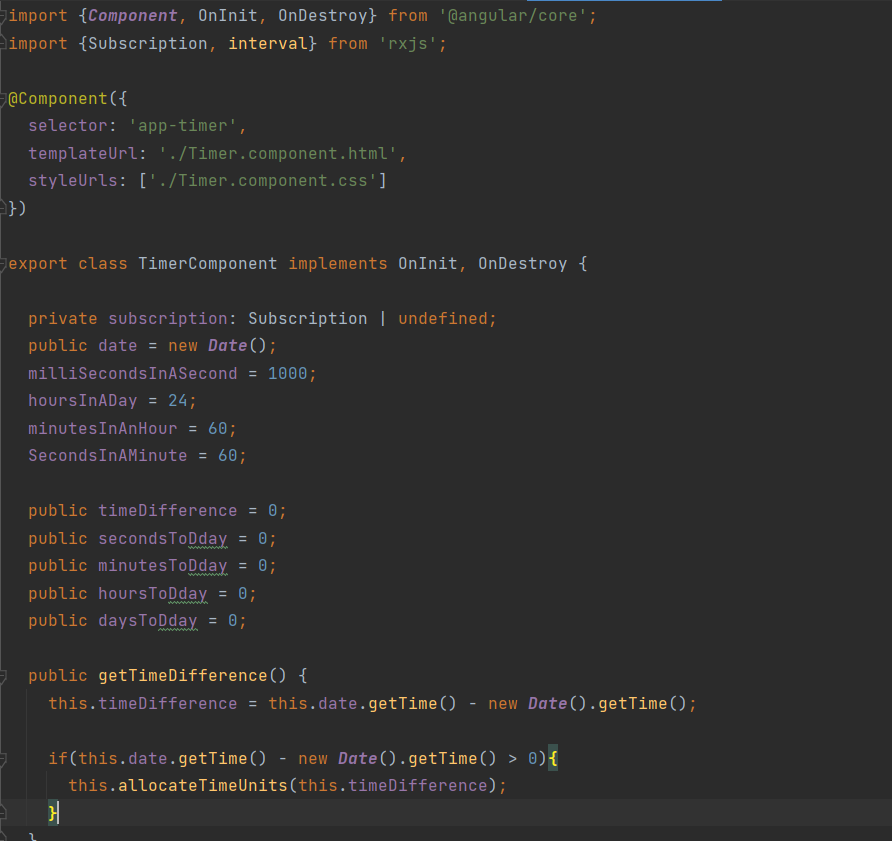
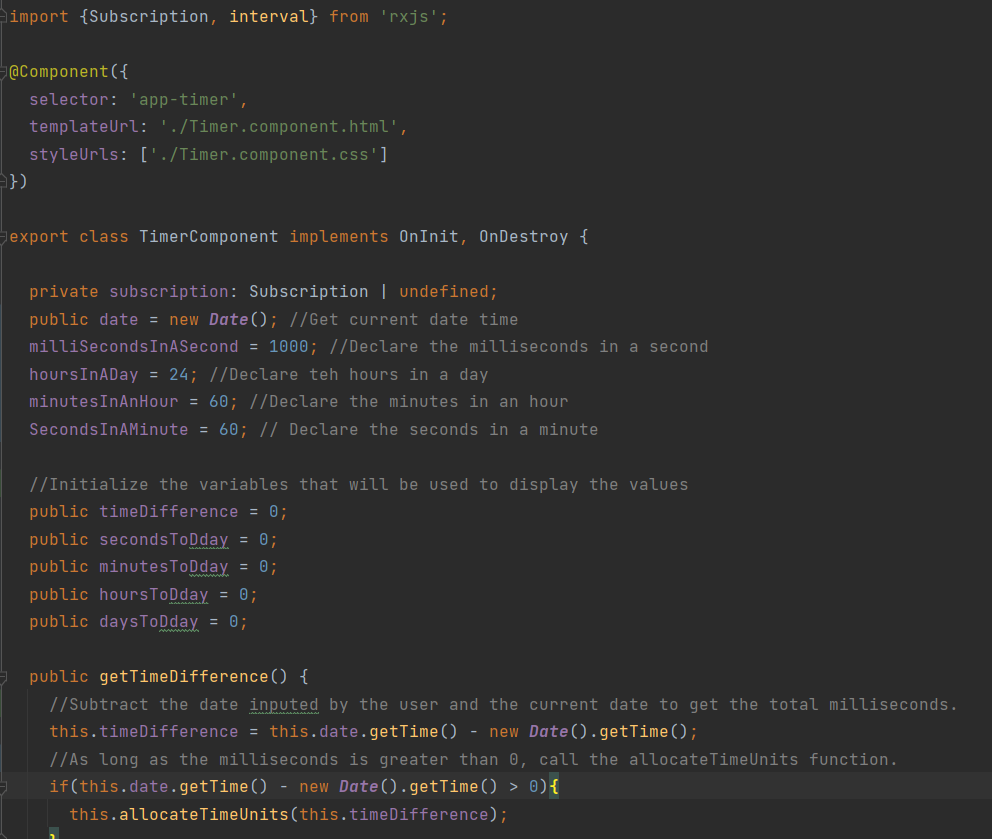
updated screenshots and added comments

Changed region(s): [[0.0, 0.0, 0.9686, 1.0]]

diff --git a/Source/ICP-5/To-Do/src/app/Timer/Timer.component.ts b/Source/ICP-5/To-Do/src/app/Timer/Timer.component.ts
@@ -10,12 +10,13 @@ import {Subscription, interval} from 'rxjs';
 export class TimerComponent implements OnInit, OnDestroy {
 
   private subscription: Subscription | undefined;
-  public date = new Date();
-  milliSecondsInASecond = 1000;
-  hoursInADay = 24;
-  minutesInAnHour = 60;
-  SecondsInAMinute = 60;
+  public date = new Date(); //Get current date time
+  milliSecondsInASecond = 1000; //Declare the milliseconds in a second
+  hoursInADay = 24; //Declare teh hours in a day
+  minutesInAnHour = 60; //Declare the minutes in an hour
+  SecondsInAMinute = 60; // Declare the seconds in a minute
 
+  //Initialize the variables that will be used to display the values
   public timeDifference = 0;
   public secondsToDday = 0;
   public minutesToDday = 0;
@@ -23,31 +24,39 @@ export class TimerComponent implements OnInit, OnDestroy {
   public daysToDday = 0;
 
   public getTimeDifference() {
+    //Subtract the date inputed by the user and the current date to get the total milliseconds.
     this.timeDifference = this.date.getTime() - new Date().getTime();
-
+    //As long as the milliseconds is greater than 0, call the allocateTimeUnits function.
     if(this.date.getTime() - new Date().getTime() > 0){
       this.allocateTimeUnits(this.timeDifference);
     }
   }
 
   private allocateTimeUnits(timeDifference: number) {
+    //Convert the milliseconds to seconds
     this.secondsToDday = Math.floor((timeDifference) /
       (this.milliSecondsInASecond) % this.SecondsInAMinute);
+    //Convert the milliseconds to minutes
     this.minutesToDday = Math.floor((timeDifference) /
       (this.milliSecondsInASecond * this.minutesInAnHour) % this.SecondsInAMinute);
+    //Convert the milliseconds to hours
     this.hoursToDday = Math.floor((timeDifference) /
       (this.milliSecondsInASecond * this.minutesInAnHour * this.SecondsInAMinute)
       % this.hoursInADay);
+    //Convert the milliseconds to days
     this.daysToDday = Math.floor((timeDifference) /
       (this.milliSecondsInASecond * this.minutesInAnHour * this.SecondsInAMinute
         * this.hoursInADay));
   }
 
   getTime(event: any) {
+    //Get the date that was inputed by the user.
     this.date = new Date((<HTMLInputElement>event.target).value);
   }
 
   ngOnInit() {
+    //Give the subscription an interval and add the function that will be used to
+    //constantly run.
     this.subscription = interval(1000)
       .subscribe(x => {
         this.getTimeDifference();
@@ -56,6 +65,7 @@ export class TimerComponent implements OnInit, OnDestroy {
 
   ngOnDestroy() {
     // @ts-ignore
+    //Stop the interval function and halt the repeated calling of the function above.
     this.subscription.unsubscribe();
   }
 

diff --git a/Source/ICP-5/To-Do/src/app/app.component.ts b/Source/ICP-5/To-Do/src/app/app.component.ts
@@ -7,17 +7,10 @@ import { Component } from '@angular/core';
 })
 export class AppComponent {
 
-  /* An empty array that is responsible
-     to add a division */
   public items = [];
 
-  /* A two-way binding performed which
-     pushes text on division */
   public newTask: string | undefined;
 
-
-  /* When input is empty, it will
-     not create a new division */
   title: string | undefined;
   public addToList() {
     if (this.newTask == '') {
@@ -31,8 +24,6 @@ export class AppComponent {
     }
   }
 
-  /* This function takes to input the
-     task, that has to be deleted*/
   public deleteTask(index: number) {
     this.items.splice(index, 1);
   }

diff --git a/Source/ICP-5/To-Do/src/app/Timer/Timer.component.html b/Source/ICP-5/To-Do/src/app/Timer/Timer.component.html
@@ -11,7 +11,6 @@
         <input class="form-control-sm" type="datetime-local" (input)="getTime($event)"/>
       </div>
     </div>
-
     <div class="row">
       <div class="col-md-12">
         <p>Selected Time: {{date}}</p>
